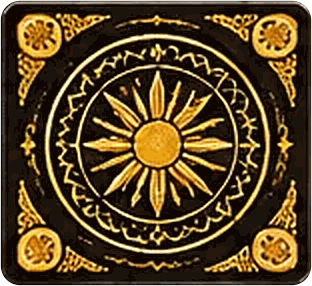
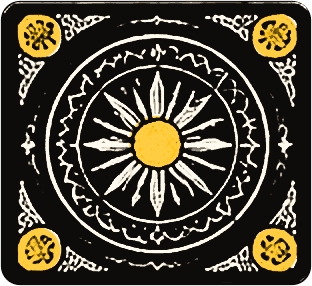
갱스껄: 개인판 뒷면 6장을 흑백 고급판으로 다시 칠함 (포인트 색은 모서리 장식과 꽃심만)
- scripts/gsk-matback.py: 옛 뒷면을 읽어 검정 바탕 + 크림·흰 문양으로 바꾸고 같은 이름으로 저장
- 옛 뒷면은 design/gsk/shots/mat-back-old/ 에 보관
- 비교 그림 design/gsk/shots/mat-back-compare.png

Claude-Session: https://claude.ai/code/session_01HLnaqaN2MDkqZeiAUNzUN3

diff --git a/scripts/gsk-matback.py b/scripts/gsk-matback.py
@@ -1,0 +1,122 @@
+#!/usr/bin/env python3
+"""갱스껄 개인판 뒷면(1점 면)을 "흑백 고급판"으로 다시 칠한다.
+
+입력  design/gsk/shots/mat-back-old/mat-back-{0..5}.png  (gsk-cut.py 가 만든 옛 뒷면. 없으면 지금 img 의 것을 먼저 보관)
+출력  client/src/gsk/img/mat-back-{0..5}.png  (같은 크기·같은 투명 모양, 256색 PNG)
+      design/gsk/shots/mat-back-compare.png   (--compare: 앞면 · 옛 뒷면 · 새 뒷면 비교)
+
+실행: python3 scripts/gsk-matback.py [--compare]
+방법: 문양의 모양(선)은 그대로 두고 색만 바꾼다.
+  - 밝기(가장 밝은 채널과 휘도의 섞음)를 재서 어두운 곳은 깊은 검정, 밝은 선은 크림·흰색으로.
+  - 포인트(그 사람 색)는 위치 마스크로 남긴다: 네 모서리 둥근 장식 + 가운데 꽃심.
+  - 투명 바깥·둥근 모서리(알파)는 손대지 않는다.
+난수 없음. 같은 입력이면 항상 같은 출력. gsk-cut.py 를 다시 돌렸다면 옛 뒷면 폴더를 지우고 이 스크립트를 돌린다.
+"""
+import os, shutil, sys
+import numpy as np
+from PIL import Image, ImageFilter
+
+ROOT = os.path.dirname(os.path.dirname(os.path.abspath(__file__)))
+IMG = os.path.join(ROOT, 'client/src/gsk/img')
+OLD = os.path.join(ROOT, 'design/gsk/shots/mat-back-old')
+SHOT = os.path.join(ROOT, 'design/gsk/shots/mat-back-compare.png')
+
+BLACK = np.array([13, 11, 10], np.float32)      # 바탕
+CREAM = np.array([236, 226, 205], np.float32)   # 문양 중간 밝기
+WHITE = np.array([255, 251, 242], np.float32)   # 문양 가장 밝은 선
+
+W, H = 312, 286
+# 네 모서리 둥근 장식(중심, 반지름). 6장 모두 같은 자리.
+CORNERS = [(37.5, 35.5), (274.5, 35.5), (37.5, 250.5), (274.5, 250.5)]
+CORNER_R = 23.0
+# 줄 0..5 = 초록 보라 노랑 빨강 파랑 주황.
+#   core: 가운데 꽃심 반지름(px), tint: 포인트에 입힐 그 사람 색, lo/hi: 밝기 자르는 점, gamma: 클수록 면이 어두워지고 선만 남는다
+TILES = [
+    dict(core=13, tint=(96, 214, 72),  lo=0.26, hi=0.80, gamma=1.3),
+    dict(core=14, tint=(176, 84, 240), lo=0.30, hi=0.66, gamma=1.2),
+    dict(core=27, tint=(255, 196, 30), lo=0.30, hi=0.88, gamma=1.6),
+    dict(core=19, tint=(236, 30, 30),  lo=0.34, hi=0.72, gamma=1.5),
+    dict(core=14, tint=(30, 180, 235), lo=0.28, hi=0.76, gamma=1.4),
+    dict(core=25, tint=(255, 130, 24), lo=0.30, hi=0.86, gamma=1.6),
+]
+
+
+def disc(cx, cy, r, feather=1.6):
+    yy, xx = np.mgrid[0:H, 0:W]
+    d = np.hypot(xx + 0.5 - cx, yy + 0.5 - cy)
+    return np.clip((r - d) / feather + 0.5, 0, 1)
+
+
+def repaint(old, cfg):
+    px = np.asarray(old.convert('RGBA')).astype(np.float32)
+    rgb, a = px[..., :3] / 255.0, px[..., 3]
+    luma = rgb @ np.array([0.299, 0.587, 0.114], np.float32)
+    v = 0.6 * rgb.max(2) + 0.4 * luma
+    t = np.clip((v - cfg['lo']) / (cfg['hi'] - cfg['lo']), 0, 1)
+    t = t * t * (3 - 2 * t)                    # 대비를 세게(검정은 더 검게, 선은 더 밝게)
+    t = t ** cfg['gamma']
+    # 흑백: 검정 -> 크림 -> 흰색
+    k = t[..., None]
+    mono = np.where(k < 0.7, BLACK + (CREAM - BLACK) * (k / 0.7), CREAM + (WHITE - CREAM) * ((k - 0.7) / 0.3))
+    # 포인트: 같은 밝기 그림에 그 사람 색을 입힌다(검정 -> 색 -> 밝은 색)
+    tint = np.array(cfg['tint'], np.float32)
+    hot = tint + (255 - tint) * 0.16         # 너무 하얗게 뜨지 않게(빨강이 분홍이 되지 않게)
+    tc = np.clip(t * 1.1, 0, 1)[..., None]
+    col = np.where(tc < 0.75, BLACK + (tint - BLACK) * (tc / 0.75), tint + (hot - tint) * ((tc - 0.75) / 0.25))
+    m = disc(W / 2, H / 2, cfg['core'])
+    for cx, cy in CORNERS:
+        m = np.maximum(m, disc(cx, cy, CORNER_R))
+    m = m[..., None]
+    out = mono * (1 - m) + col * m
+    res = np.dstack([np.clip(out + 0.5, 0, 255), a]).astype(np.uint8)
+    return Image.fromarray(res, 'RGBA')
+
+
+def save_png(im, path):
+    q = im.quantize(256, method=Image.FASTOCTREE, dither=Image.FLOYDSTEINBERG)
+    q.save(path, optimize=True)
+
+
+def compare():
+    """6색 x (앞면 · 옛 뒷면 · 새 뒷면) 을 나무 바닥 위에. 위는 큰 크기, 아래는 실제처럼 작은 크기(폭 120px)."""
+    floor = Image.open(os.path.join(IMG, 'floor.webp')).convert('RGB')
+    big, small, gap = 208, 120, 14
+    bh, sh = round(big * H / W), round(small * H / W)
+    cw = 6 * big + 7 * gap
+    ch = gap + 3 * (bh + gap) + 10 + 3 * (sh + gap)
+    bg = floor.resize((cw, max(ch, round(cw * floor.height / floor.width))), Image.LANCZOS).crop((0, 0, cw, ch)).convert('RGBA')
+    def rows(y0, w, h):
+        for j, (d, name) in enumerate([(IMG, 'mat-front'), (OLD, 'mat-back'), (IMG, 'mat-back')]):
+            for i in range(6):
+                t = Image.open(os.path.join(d, f'{name}-{i}.png')).convert('RGBA').resize((w, h), Image.LANCZOS)
+                x = gap + i * (big + gap) + (big - w) // 2
+                sh_ = Image.new('RGBA', bg.size, (0, 0, 0, 0))
+                sh_.paste((0, 0, 0, 120), (x + 2, y0 + j * (h + gap) + 4), t.split()[3])
+                bg.alpha_composite(sh_.filter(ImageFilter.GaussianBlur(3)))
+                bg.alpha_composite(t, (x, y0 + j * (h + gap)))
+    rows(gap, big, bh)
+    rows(gap + 3 * (bh + gap) + 10, small, sh)
+    bg.convert('RGB').save(SHOT, optimize=True)
+    print('비교 그림', SHOT, bg.size)
+
+
+def main():
+    os.makedirs(OLD, exist_ok=True)
+    for i, cfg in enumerate(TILES):
+        name = f'mat-back-{i}.png'
+        old = os.path.join(OLD, name)
+        if not os.path.exists(old):            # 처음 한 번: 옛 뒷면을 보관
+            shutil.copyfile(os.path.join(IMG, name), old)
+        im = Image.open(old)
+        assert im.size == (W, H), (name, im.size)
+        dst = os.path.join(IMG, name)
+        save_png(repaint(im, cfg), dst)
+        kb = os.path.getsize(dst) / 1024
+        assert kb <= 60, (name, kb)
+        print(f'{name} {kb:.1f}KB')
+    if '--compare' in sys.argv:
+        compare()
+
+
+if __name__ == '__main__':
+    main()
